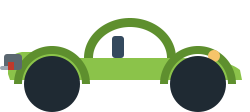
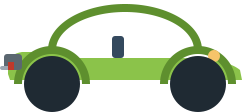
Make the buggy's arch span from the top of one fender to the other
The arch over the seats now starts and ends at the top middle of each
fender, above the wheel centers, and rises higher.

Claude-Session: https://claude.ai/code/session_01F1XyeJbkdn1kDtDDVeB88k

Changed region(s): [[0.196, 0.0268, 0.812, 0.4286], [0.336, 0.1607, 0.728, 0.5357]]

diff --git a/tools/generate_images.py b/tools/generate_images.py
@@ -873,8 +873,10 @@ BG, BGD = "#8BC34A", "#5E8F2E"
 buggy = (f'<path d="M8,74 L8,62 Q10,54 22,52 L66,52 L70,58 L178,58 Q226,58 240,70 L242,80 L10,80 Z" fill="{BG}"/>'
          f'<path d="M14,84 A38,38 0 0 1 90,84 L82,84 A30,30 0 0 0 22,84 Z" fill="{BGD}"/>'
          f'<path d="M160,84 A38,38 0 0 1 236,84 L228,84 A30,30 0 0 0 168,84 Z" fill="{BGD}"/>'
-         # A green arch over the seats, in the same shape and color as the fenders
-         f'<path d="M84,58 A46,40 0 0 1 176,58 L167,58 A37,31 0 0 0 93,58 Z" fill="{BGD}"/>'
+         # A green arch over the seats, in the same color and thickness as the
+         # fenders. Its ends sit on the top middle of each fender (x=52 and
+         # x=198, the wheel centers).
+         f'<path d="M48,50 A77,46 0 0 1 202,50 L194,50 A69,38 0 0 0 56,50 Z" fill="{BGD}"/>'
          f'<rect x="112" y="36" width="12" height="22" rx="3" fill="#34495E"/>'
          f'<rect x="4" y="54" width="18" height="16" rx="3" fill="#5B6770"/><rect x="0" y="66" width="10" height="4" rx="2" fill="#9CA6B1"/>'
          f'<circle cx="214" cy="56" r="6" fill="#F6C46A"/><rect x="8" y="62" width="6" height="8" fill="#C0392B"/>'
